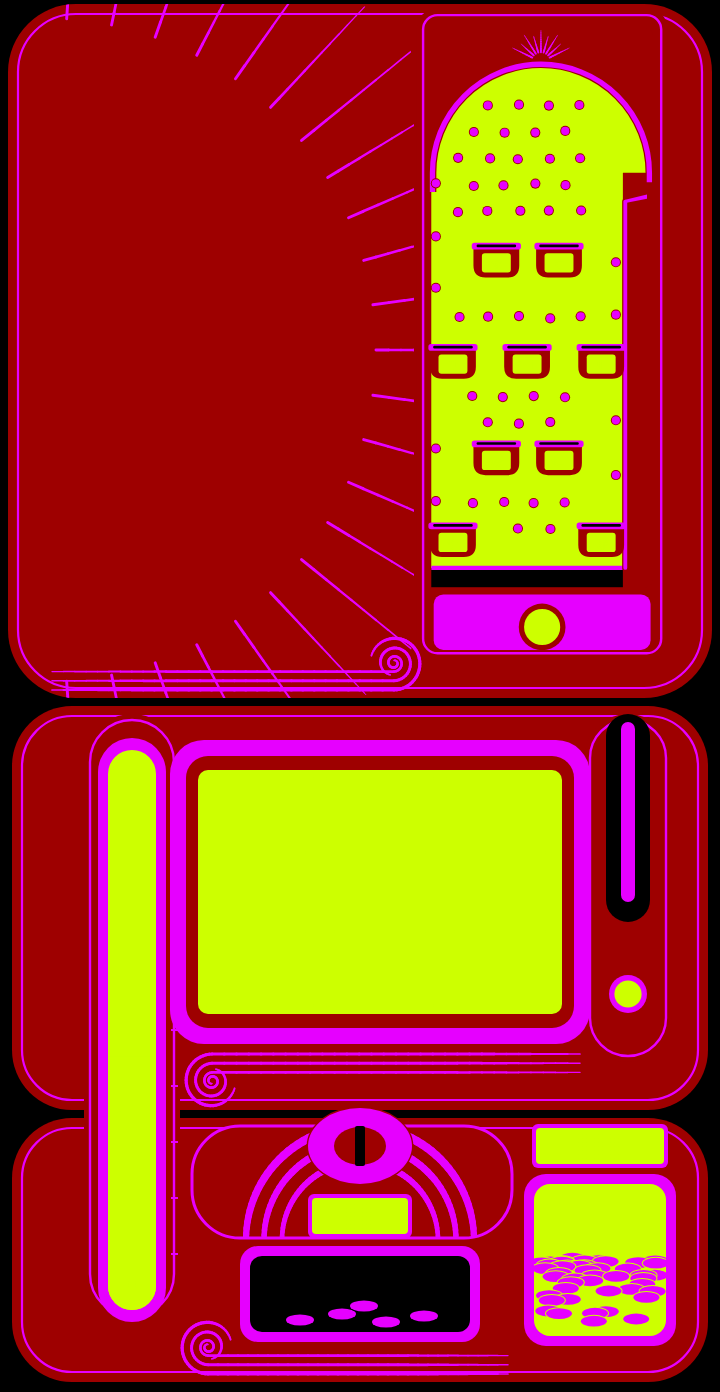
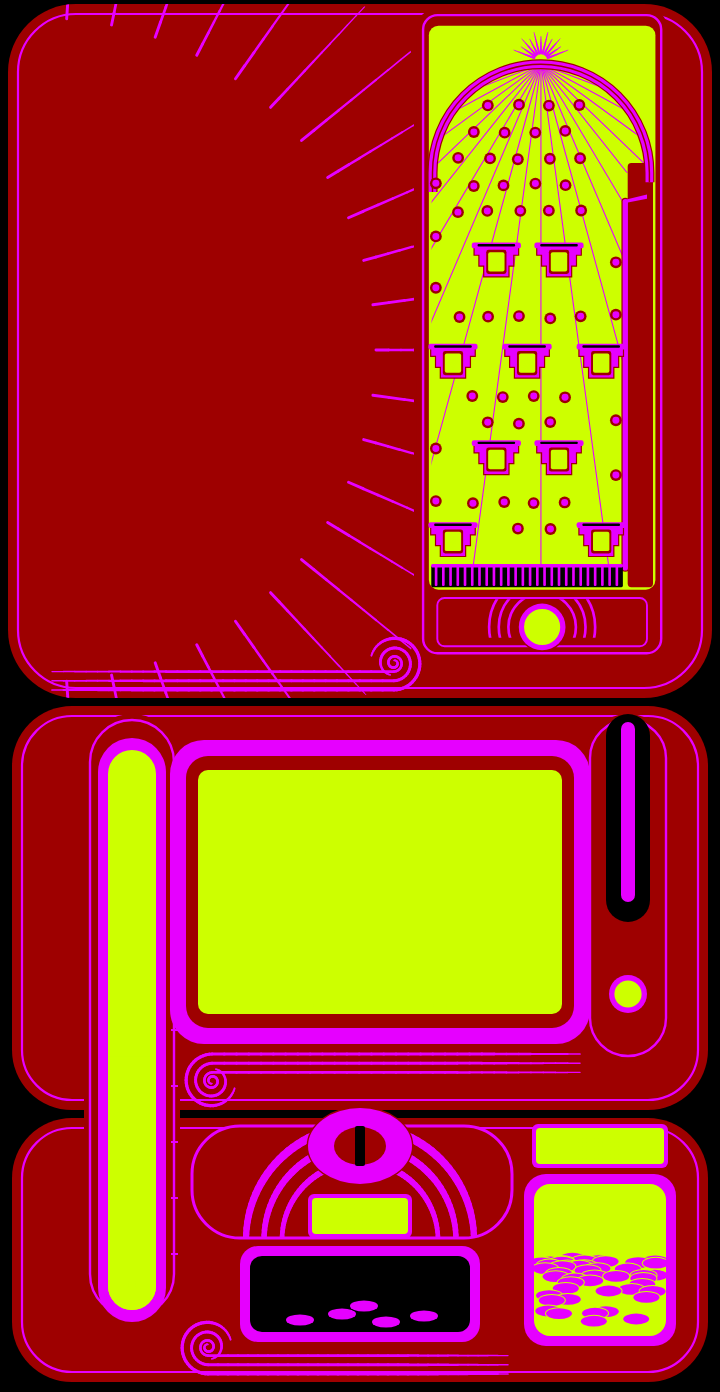
Алчность v2: пачинко — поле «бордо», лунки-зиккураты, блики стекла за наклоном
Claude-Session: https://claude.ai/code/session_014b7WGtUGzHT9duRP7NWniS

Changed region(s): [[0.5806, 0.0, 0.9167, 0.4943]]

diff --git a/src/minigames/greed/greed-lux-pach.js b/src/minigames/greed/greed-lux-pach.js
@@ -48,6 +48,7 @@ Object.assign(GreedLux, {
             `width:${R.w / this.W * 100}%;height:${R.h / this.H * 100}%;z-index:2;pointer-events:none;background:none`;
         wrap.appendChild(cv);
         this.pfx = cv; this.pfxK = cv.width / (P.x1 - P.x0);
+        this.pachGlareMount(wrap);
         // кнопка — тап по ней (зона шире кнопки, как у гаражного)
         wrap.addEventListener('pointerdown', (e) => {
             const B = G.PACH.button, [x, y] = G.pachInv(...G.toField(e, wrap));
@@ -55,6 +56,55 @@ Object.assign(GreedLux, {
             e.preventDefault(); e.stopPropagation();
             this.pachLaunch();
         });
+    },
+
+    // ---------- блики стекла ----------
+    // Игрок (18.11): «между ровно и наклон разницы не вижу» — отражение
+    // студии в шейдере на тёмном стекле — узкая полоска, и от наклона она
+    // почти не ходит. Блики — отдельным слоем: широкие мягкие косые полосы
+    // (рисуются один раз), к низу гаснут; наклон телефона двигает слой
+    // переносом (без перерисовки) — отражение заметно ползёт по стеклу.
+    // Слой над шариком: шарик под стеклом. Обрезан колодцем поля.
+    GLARE: { m: 34, kx: 46, ky: 34 },
+    pachGlareMount(wrap) {
+        const G = GreedJunk, P = G.PACH, K = this.GLARE, d = Math.min(3, window.devicePixelRatio || 1);
+        const x0 = P.x0 + P.wall - 1, x1 = P.x1 - P.wall + 1, y0 = P.y0 + P.top - 1, y1 = P.y1 - P.panel + 1;
+        const R = G.pachRect({ x: x0, y: y0, w: x1 - x0, h: y1 - y0 });
+        const clip = document.createElement('div');
+        clip.style.cssText = `position:absolute;left:${R.x / this.W * 100}%;top:${(R.y - this.Y0) / this.H * 100}%;` +
+            `width:${R.w / this.W * 100}%;height:${R.h / this.H * 100}%;overflow:hidden;z-index:2;pointer-events:none;border-radius:3%`;
+        const w = x1 - x0 + 2 * K.m, h = y1 - y0 + 2 * K.m, k = 2.2 * d, cv = document.createElement('canvas');
+        cv.width = Math.round(w * k); cv.height = Math.round(h * k);
+        cv.style.cssText = `position:absolute;left:${-K.m / (x1 - x0) * 100}%;top:${-K.m / (y1 - y0) * 100}%;` +
+            `width:${w / (x1 - x0) * 100}%;height:${h / (y1 - y0) * 100}%;background:none;will-change:transform`;
+        clip.appendChild(cv); wrap.appendChild(clip);
+        const c = cv.getContext('2d'), L = PALETTE.greedLux.glass;
+        c.setTransform(k, 0, 0, k, 0, 0);
+        c.filter = `blur(${(1.6 * k).toFixed(1)}px)`;
+        // полосы: середина (доля ширины), ширина, сила
+        [[0.24, 22, 0.13], [0.46, 4.5, 0.16], [0.62, 2.2, 0.12], [0.84, 11, 0.07], [1.12, 18, 0.11], [1.3, 3, 0.13]].forEach(([u, bw, a]) => {
+            const ax = K.m + (x1 - x0) * u, run = h * 0.6;
+            c.globalAlpha = a; c.fillStyle = L.glare;
+            c.beginPath(); c.moveTo(ax, 0); c.lineTo(ax + bw, 0); c.lineTo(ax + bw - run, h); c.lineTo(ax - run, h); c.closePath(); c.fill();
+        });
+        c.filter = 'none'; c.globalAlpha = 1;
+        // к низу гаснут: отражается лампа над аппаратом
+        c.globalCompositeOperation = 'destination-in';
+        const g = c.createLinearGradient(0, 0, 0, h);
+        g.addColorStop(0, 'rgba(0,0,0,1)'); g.addColorStop(0.55, 'rgba(0,0,0,0.55)'); g.addColorStop(1, 'rgba(0,0,0,0.1)');
+        c.fillStyle = g; c.fillRect(0, 0, w, h);
+        c.globalCompositeOperation = 'source-over';
+        this.glareCv = cv; this.glareSpan = [x1 - x0, y1 - y0]; this._glareAt = null;
+    },
+    // сдвиг бликов за наклоном (единицы поля → проценты слоя)
+    pachGlareAt() {
+        const cv = this.glareCv, t = this.tilt, K = this.GLARE;
+        if (!cv || !t) return;
+        const dx = Math.max(-K.m, Math.min(K.m, t.x * K.kx)), dy = Math.max(-K.m, Math.min(K.m, -t.y * K.ky));
+        if (this._glareAt && Math.abs(dx - this._glareAt[0]) < 0.15 && Math.abs(dy - this._glareAt[1]) < 0.15) return;
+        this._glareAt = [dx, dy];
+        const [sw, sh] = this.glareSpan, w = sw + 2 * K.m, h = sh + 2 * K.m;
+        cv.style.transform = `translate(${(dx / w * 100).toFixed(2)}%, ${(dy / h * 100).toFixed(2)}%)`;
     },
 
     // Толкатель: взведён на выстреле и плавно, без дрожи, уходит назад.
@@ -74,6 +124,7 @@ Object.assign(GreedLux, {
     pachStep(now) {
         const M = this._pach, G = GreedJunk, K = G.PACH_PHYS, F = this.PACH_FX;
         if (!M) return;
+        this.pachGlareAt();
         this.pachFill(now);
         const dt = Math.min(0.05, M.bat ? (now - M.bat) / 1000 : 1 / 60);
         M.bat = now;

diff --git a/src/core/palette.js b/src/core/palette.js
@@ -955,6 +955,8 @@ const PALETTE = {
         wheel: { spark: 'rgba(255,240,200,1)', sparkHalo: 'rgba(255,190,80,0.55)', lock: 'rgba(255,214,140,0.55)', dim: 'rgba(0,0,0,0.45)' },
         // светодиоды табло на лунках пачинко — второй цвет лунки (эмаль —
         // в машинном эскизе, machine.py CUP_COL; держать вместе)
+        // блики стекла пачинко (greed-lux-pach.js)
+        glass: { glare: '#fff6e8' },
         cupLed: { wrath: '#ff6a5a', glut: '#ffaa62', lust: '#ff92b4', sloth: '#92baff', greed: '#ffd96a', envy: '#7fe8c8', pride: '#c99cff', gold1: '#ffe08a' }
     },
 

diff --git a/src/minigames/greed/greed-lux.js b/src/minigames/greed/greed-lux.js
@@ -103,7 +103,7 @@ const GreedLux = {
         if (this.wrapEl) this.wrapEl.remove();
         this.wrapEl = null; this._mountP = null; this.meta = null;
         this.reels = null; this._lv = null; this.ledCv = null; this.ledGrid = null; this.lampCv = null; this._wheel = null; this.fx = null;
-        this._pach = null; this.pfx = null; this._pgl = null;
+        this._pach = null; this.pfx = null; this._pgl = null; this.glareCv = null;
     },
 
     // ---------- то, что версия 2 получит на своих этапах ----------

diff --git a/tools/greed-lux-sketch/machine.py b/tools/greed-lux-sketch/machine.py
@@ -520,7 +520,10 @@ def led_icon(key):
 # Варианты вида поля (концепты 18.11 после «1 из 10»: перекраска гаражного
 # — не дизайн). PV=A «ночь под стеклом», B «бордо», C «решётка». Физика та же:
 # места гвоздей, лунок, дуги, дорожки, стока, кнопки — из игры.
-PV = os.environ.get('PV', 'A')
+# PV — две буквы: поле и лунки (игрок, 18.11: поле B «бордо», лунки C
+# «зиккураты»); одна буква — то и другое из одного варианта.
+PV = os.environ.get('PV', 'BC')
+PVF, PVC = PV[0], PV[-1]
 def pach_live():
     P, A = PP, PP['arc']
     fx0, fx1, fy0, fy1 = P['x0'] + P['wall'], P['x1'] - P['wall'], P['y0'] + P['top'], P['y1'] - P['panel']
@@ -529,9 +532,9 @@ def pach_live():
     # колодец поля: всё под дымчатым стеклом (материал стекла — отражения студии)
     o += rr(fx0 - 1, fy0 - 1, fx1 + 1, fy1 + 1, 4, c('#050404', 'glass', '#000'))
     inner = f'M{cx - r} {cy} A{r} {r} 0 0 1 {cx + r} {cy} L{sep} {cy} L{sep} {drain} L{fx0} {drain} L{fx0} {cy} Z'
-    field = {'A': '#0d0a09', 'B': '#3a0a14', 'C': '#0a0909'}[PV]
-    edge = {'A': '#050403', 'B': '#1c040a', 'C': '#040303'}[PV]
-    glow = {'A': '#2a1a08', 'B': '#3a0c10', 'C': '#1e1408'}[PV]
+    field = {'A': '#0d0a09', 'B': '#3a0a14', 'C': '#0a0909'}[PVF]
+    edge = {'A': '#050403', 'B': '#1c040a', 'C': '#040303'}[PVF]
+    glow = {'A': '#2a1a08', 'B': '#3a0c10', 'C': '#1e1408'}[PVF]
     if PASS == 'albedo':
         o += (f'<radialGradient id="pfg" cx="{cx}" cy="{cy - 10}" r="190" gradientUnits="userSpaceOnUse">'
               f'<stop offset="0" stop-color="{field}"/><stop offset="1" stop-color="{edge}"/></radialGradient>')
@@ -543,13 +546,13 @@ def pach_live():
     else:
         o += f'<path d="{inner}" fill="{c("#000", "glass")}"/>'
     o += f'<clipPath id="pfc"><path d="{inner}"/></clipPath><g clip-path="url(#pfc)">'
-    if PV in ('A', 'B'):
+    if PVF in ('A', 'B'):
         # лучи веером от верха арки — тонкая позолота, тихо
         for k in range(23):
             a = math.pi * (0.03 + 0.94 * k / 22)
             x1_, y1_ = cx + math.cos(a) * 260, cy - r + math.sin(a) * 260
-            o += f'<line x1="{cx}" y1="{cy - r}" x2="{x1_:.1f}" y2="{y1_:.1f}" stroke="{c(GOLD, "gold")}" stroke-width="{0.35 if PV == "A" else 0.45}" opacity="{0.45 if PASS == "albedo" else 1}"/>'
-    if PV == 'C':
+            o += f'<line x1="{cx}" y1="{cy - r}" x2="{x1_:.1f}" y2="{y1_:.1f}" stroke="{c(GOLD, "gold")}" stroke-width="{0.35 if PVF == "A" else 0.45}" opacity="{0.45 if PASS == "albedo" else 1}"/>'
+    if PVF == 'C':
         # ромбическая решётка и солнце за серединой поля
         step = 12.6
         for k in range(-20, 21):
@@ -584,14 +587,14 @@ def pach_live():
     for cu in PG['CUPS']:
         x, y, key = cu['x'] - cw / 2, cu['y'], cu['key']
         enamel, led = CUP_COL[key]
-        if PV == 'A':
+        if PVC == 'A':
             # золотой тюльпан: трапеция расширяется вверх, внутри — эмаль
             body = f'M{x - 0.6} {y} L{x + cw + 0.6} {y} L{x + cw - 2.6} {y + ch} L{x + 2.6} {y + ch} Z'
             ins = f'M{x + 1.4} {y + 1.6} L{x + cw - 1.4} {y + 1.6} L{x + cw - 3.6} {y + ch - 1.4} L{x + 3.6} {y + ch - 1.4} Z'
             o += f'<path d="{body}" fill="{c(INK)}" stroke="{c(INK)}" stroke-width="1"/><path d="{body}" fill="{c(GOLD, "gold")}"/><path d="{ins}" fill="{c(enamel, "lac")}"/>'
             o += f'<circle cx="{x + cw / 2}" cy="{y + ch / 2 + 0.6}" r="3.9" fill="{c("#050406", "glass", "#04040a")}"/>'
             icx, icy, q = x + cw / 2, y + ch / 2 + 0.6, 0.4
-        elif PV == 'B':
+        elif PVC == 'B':
             body = f'M{x} {y} L{x} {y + ch - 4} Q{x} {y + ch} {x + 4} {y + ch} L{x + cw - 4} {y + ch} Q{x + cw} {y + ch} {x + cw} {y + ch - 4} L{x + cw} {y} Z'
             o += f'<path d="{body}" fill="{c(INK)}" stroke="{c(GOLD, "gold")}" stroke-width="1.3"/><path d="{body}" fill="{c("#0c0809", "lac")}"/>'
             o += rr(x + 0.8, y + 1.6, x + cw - 0.8, y + 3.6, 0.4, c(enamel, 'lac'))

diff --git a/docs/plan/31-greed-premium.md b/docs/plan/31-greed-premium.md
@@ -892,3 +892,13 @@
   шарику искалась только по x — на x 284,5 их две, шарик в нижней обрезался
   по кромке верхней; теперь `pachCupOf` — по ключу и ближайшая по высоте.
 
+* 18.11 — пачинко v2 переделан с нуля после оценки «1 из 10, перекраска
+  гаражного». Показаны три концепта (`machine.py`, переменная `PV`: первая
+  буква — поле A/B/C, вторая — лунки A/B/C), игрок выбрал поле B («бордо»:
+  бордовый фон под тёмным стеклом, золотой веер лучей, двойная золотая арка)
+  и лунки C («зиккураты» с эмалевой вставкой-табло). По умолчанию `PV=BC`.
+  «Между ровно и наклон разницы не вижу» — отражение студии в шейдере на
+  тёмном стекле слишком узкое. Добавлен отдельный слой бликов
+  (`pachGlareMount`/`pachGlareAt` в `greed-lux-pach.js`): широкие мягкие
+  косые полосы рисуются один раз, наклон двигает слой переносом, без
+  перерисовки. Слой над шариком (шарик под стеклом), обрезан колодцем.
